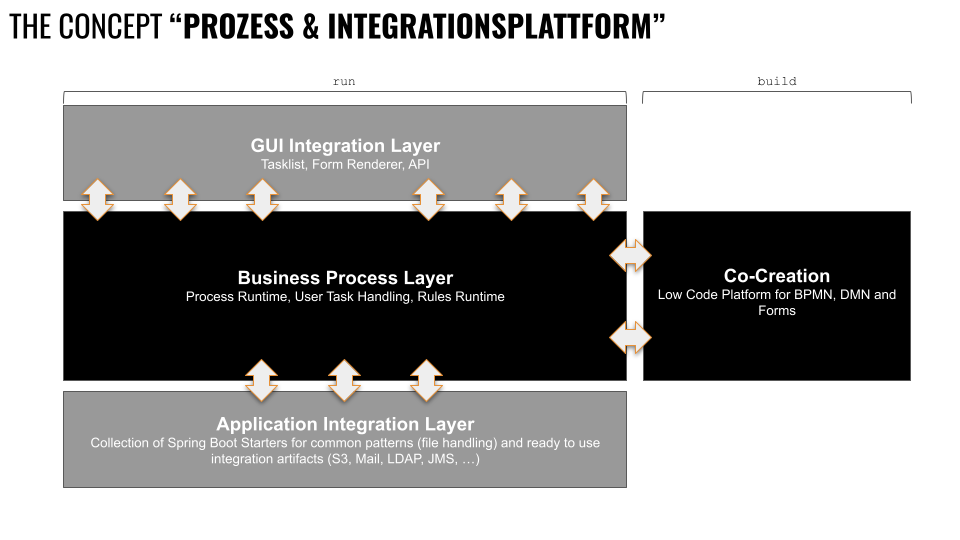
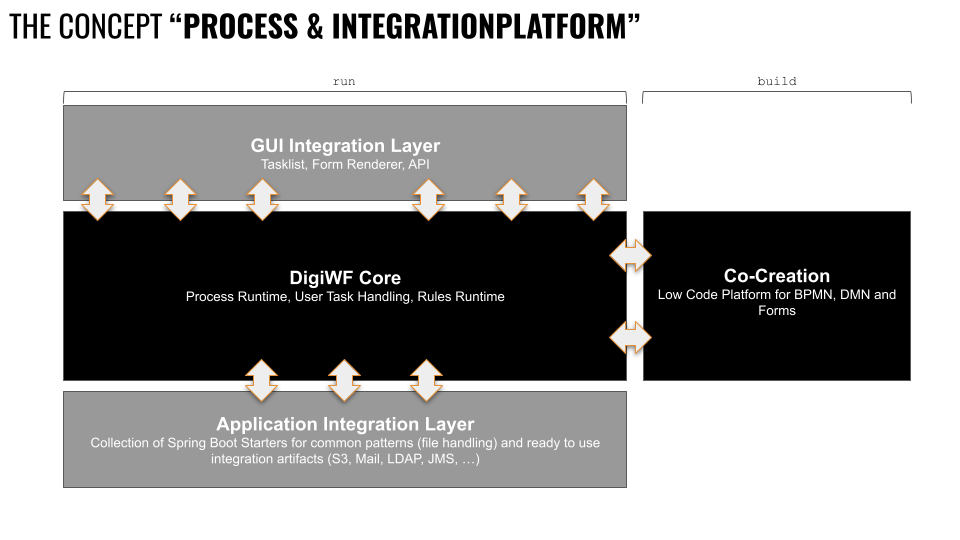
typos in image. see #76

Changed region(s): [[0.25, 0.0, 0.6875, 0.0889], [0.25, 0.5037, 0.4688, 0.5333]]

diff --git a/content/resources/documentation/architecture/overview.md b/content/resources/documentation/architecture/overview.md
@@ -19,8 +19,6 @@ lazy-src="images/resources/documentation/architecture/preview_digiwf_concept_pro
 
 The main goal of DigiWF is to create a declarative way for process designers to interact with a technical infrastructure. For this we've created some supporting services around the opensource [camunda](https://camunda.com/) workflow:
 
-[comment]: <> (![Foo]&#40;images/resources/documentation/architecture/digiwf_concept.png&#41;)
-
 
 - Process Service: This is the service where Camunda is embedded. It is used mainly to execute the BPMN workflows.
 - Service Instance: This handles any kind of service instances. A service instance can be a process, but does not 
